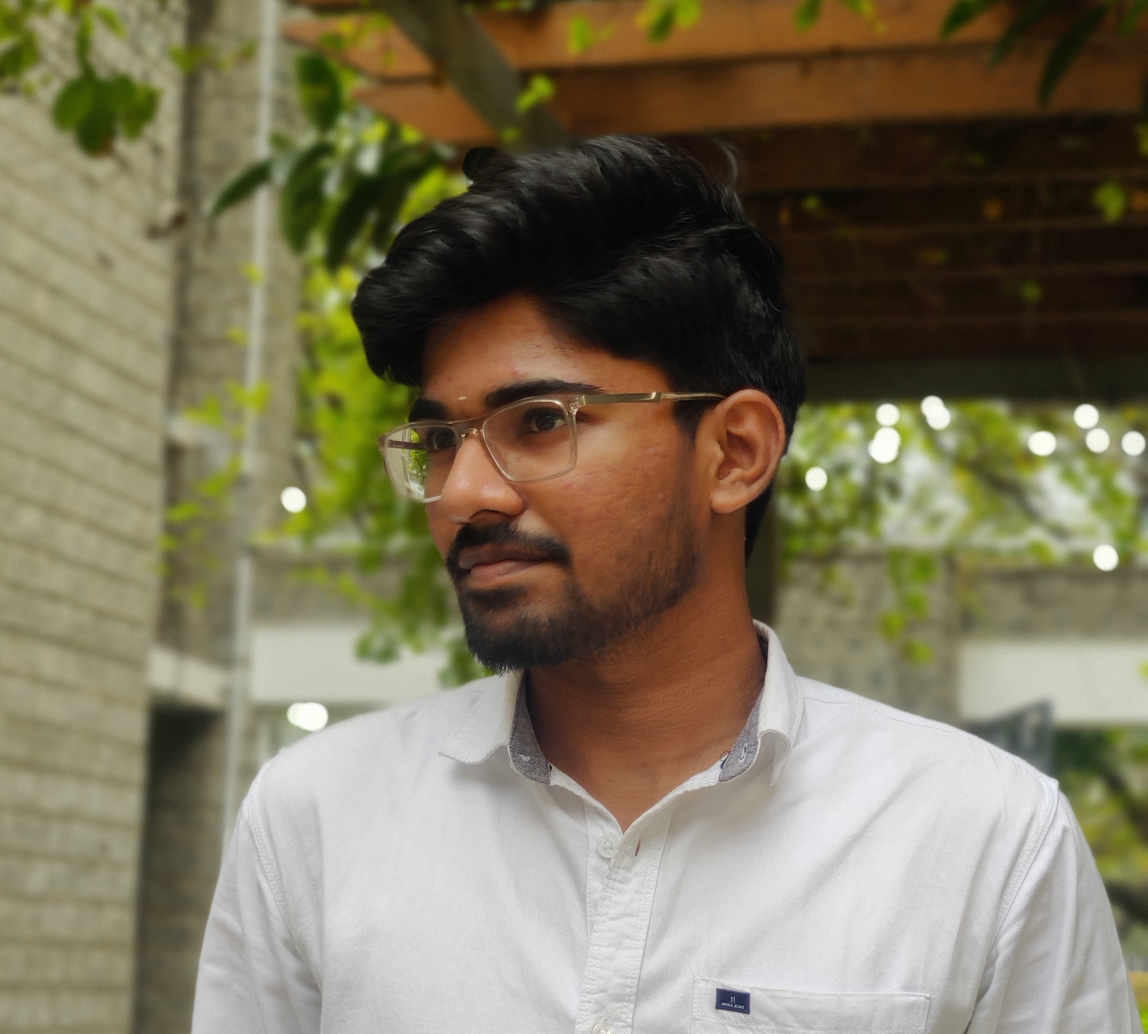
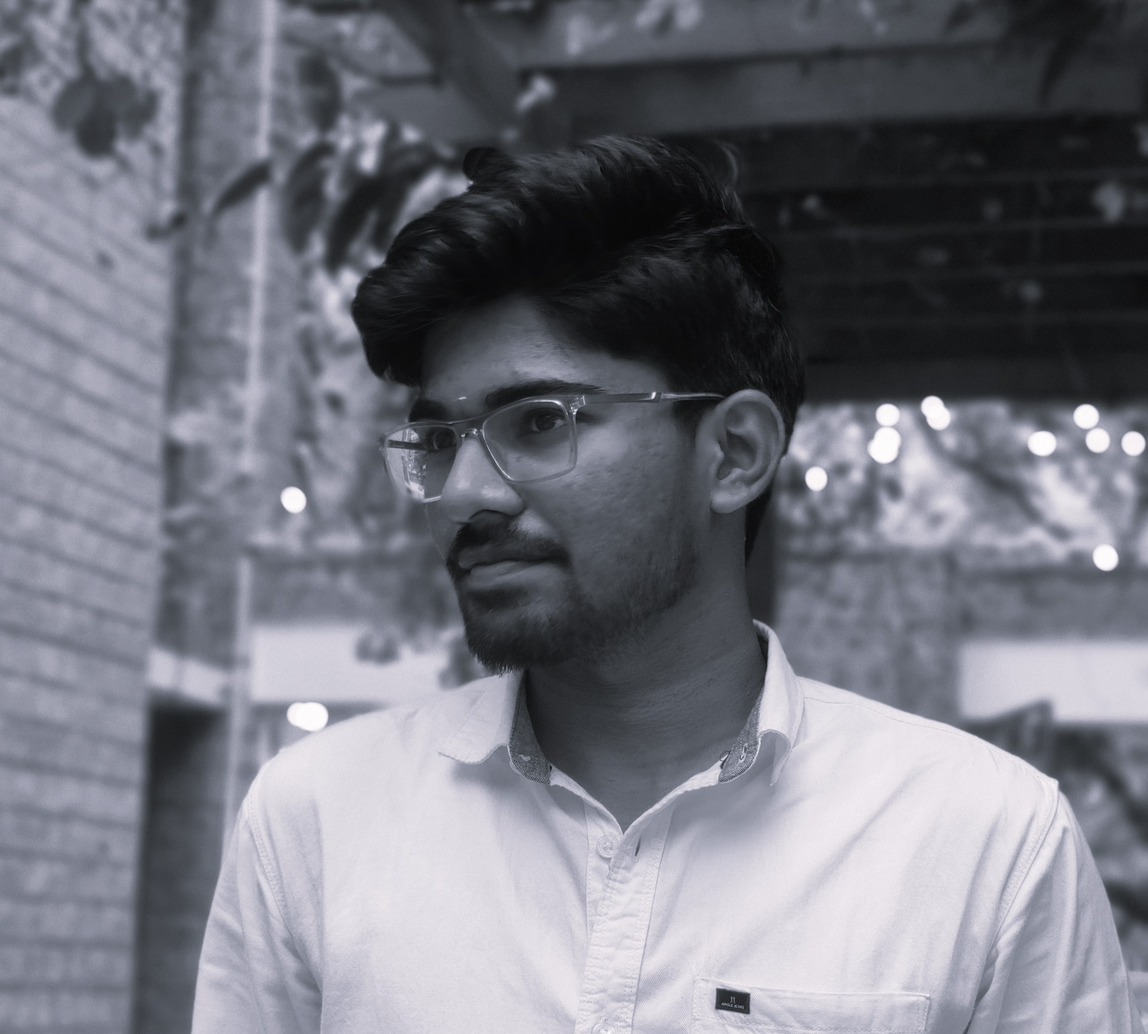
About: Changed profile img

diff --git a/src/components/About/About.js b/src/components/About/About.js
@@ -28,7 +28,7 @@ function About() {
             <div className={styles.gridWrapper} id="about">
                 <div className={`${styles.main} ${styles.gridItems}`}>
                     <Image
-                        src="https://raw.githubusercontent.com/venkatk-git/portfolio/dev/public/assests/my_self.jpg"
+                        src="https://raw.githubusercontent.com/venkatk-git/portfolio/dev/public/assests/profile_placeholder.jpg"
                         className={styles.profileImg}
                         width={500}
                         height={140}
